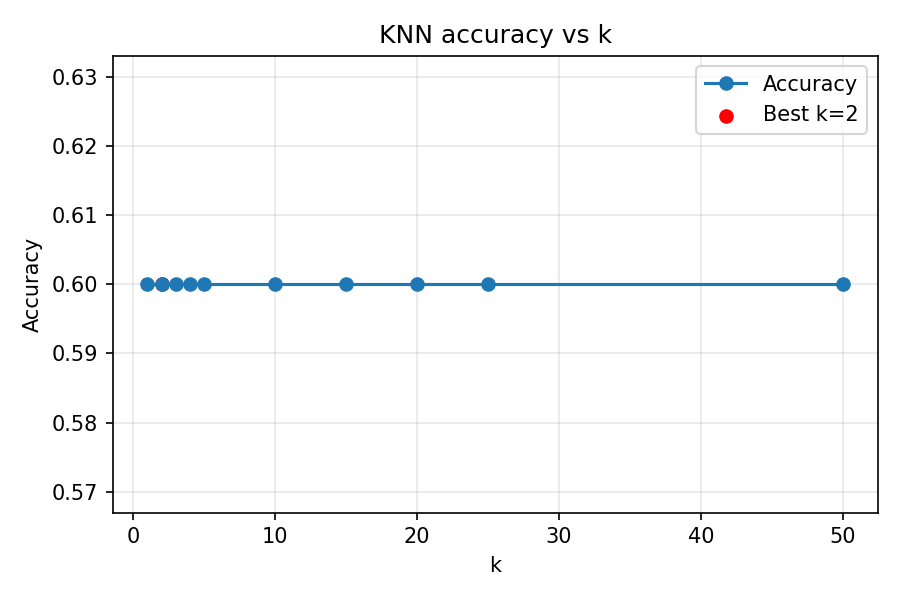
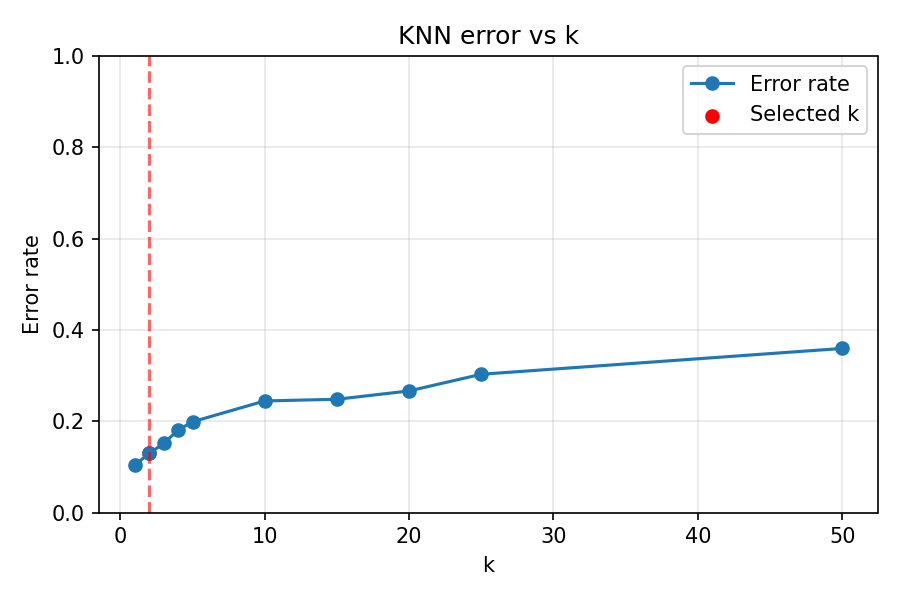
hyperparameter tuning

diff --git a/src/knn/evaluate.py b/src/knn/evaluate.py
@@ -105,8 +105,17 @@ def plot_elbow(
     accuracy_by_k: Dict[int, float],
     best_k: int,
     output_path: Path,
+    *,
+    data_split: str = "validation",
 ) -> None:
-    """Create an error-rate vs ``k`` plot for diagnostic purposes."""
+    """Create an error-rate vs ``k`` plot for diagnostic purposes.
+
+    :param k_values: Iterable of evaluated ``k`` values.
+    :param accuracy_by_k: Mapping from ``k`` to accuracy on the requested split.
+    :param best_k: Selected ``k`` value for reporting.
+    :param output_path: Destination path for the generated figure.
+    :param data_split: Human-readable label describing the data split used.
+    """
 
     if plt is None:
         logging.warning("[KNN] Skipping elbow plot (matplotlib not installed)")
@@ -123,7 +132,8 @@ def plot_elbow(
         best_error = 1.0 - float(accuracy_by_k[best_k])
         plt.axvline(best_k, color="red", linestyle="--", alpha=0.6)
         plt.scatter([best_k], [best_error], color="red", label="Selected k")
-    plt.title("KNN error vs k")
+    split_label = data_split.strip() or "validation"
+    plt.title(f"KNN error vs k ({split_label} split)")
     plt.xlabel("k")
     plt.ylabel("Error rate")
     plt.ylim(0.0, 1.0)
@@ -131,6 +141,13 @@ def plot_elbow(
     handles, labels = plt.gca().get_legend_handles_labels()
     if handles:
         plt.legend(handles, labels)
+    plt.figtext(
+        0.5,
+        -0.05,
+        f"Error computed on {split_label} data (eligible examples only)",
+        ha="center",
+        fontsize=9,
+    )
     output_path.parent.mkdir(parents=True, exist_ok=True)
     plt.tight_layout()
     plt.savefig(output_path, dpi=150)
@@ -184,12 +201,12 @@ def _word2vec_config_from_args(args, issue_slug: str) -> Word2VecConfig:
     model_root = Path(args.word2vec_model_dir) if args.word2vec_model_dir else default_cfg.model_dir
     return Word2VecConfig(
         vector_size=int(args.word2vec_size),
-        window=default_cfg.window,
-        min_count=default_cfg.min_count,
-        epochs=default_cfg.epochs,
+        window=int(getattr(args, "word2vec_window", default_cfg.window)),
+        min_count=int(getattr(args, "word2vec_min_count", default_cfg.min_count)),
+        epochs=int(getattr(args, "word2vec_epochs", default_cfg.epochs)),
         model_dir=Path(model_root) / issue_slug,
         seed=int(getattr(args, "knn_seed", default_cfg.seed)),
-        workers=default_cfg.workers,
+        workers=int(getattr(args, "word2vec_workers", default_cfg.workers)),
     )
 
 
@@ -458,7 +475,7 @@ def _write_issue_outputs(
     reports_dir = resolve_reports_dir(Path(args.out_dir)) / "knn" / feature_space
     reports_dir.mkdir(parents=True, exist_ok=True)
     elbow_path = reports_dir / f"elbow_{issue_slug}.png"
-    plot_elbow(k_values, accuracy_by_k, best_k, elbow_path)
+    plot_elbow(k_values, accuracy_by_k, best_k, elbow_path, data_split=EVAL_SPLIT)
 
     curve_json = issue_dir / f"knn_curves_{issue_slug}.json"
     with open(curve_json, "w", encoding="utf-8") as handle:

diff --git a/src/knn/cli.py b/src/knn/cli.py
@@ -7,6 +7,7 @@ import logging
 from pathlib import Path
 
 from .evaluate import run_eval
+from .features import Word2VecConfig
 
 
 def build_parser() -> argparse.ArgumentParser:
@@ -99,6 +100,38 @@ def build_parser() -> argparse.ArgumentParser:
         default=256,
         dest="word2vec_size",
         help="Embedding size when using the Word2Vec feature space.",
+    )
+    parser.add_argument(
+        "--word2vec-window",
+        "--word2vec_window",
+        type=int,
+        default=Word2VecConfig().window,
+        dest="word2vec_window",
+        help="Context window size for Word2Vec training.",
+    )
+    parser.add_argument(
+        "--word2vec-min-count",
+        "--word2vec_min_count",
+        type=int,
+        default=Word2VecConfig().min_count,
+        dest="word2vec_min_count",
+        help="Minimum token frequency retained in the Word2Vec vocabulary.",
+    )
+    parser.add_argument(
+        "--word2vec-epochs",
+        "--word2vec_epochs",
+        type=int,
+        default=Word2VecConfig().epochs,
+        dest="word2vec_epochs",
+        help="Number of training epochs for Word2Vec.",
+    )
+    parser.add_argument(
+        "--word2vec-workers",
+        "--word2vec_workers",
+        type=int,
+        default=Word2VecConfig().workers,
+        dest="word2vec_workers",
+        help="Worker threads for Word2Vec training (set >1 for faster but non-deterministic runs).",
     )
     parser.add_argument(
         "--word2vec-model-dir",
